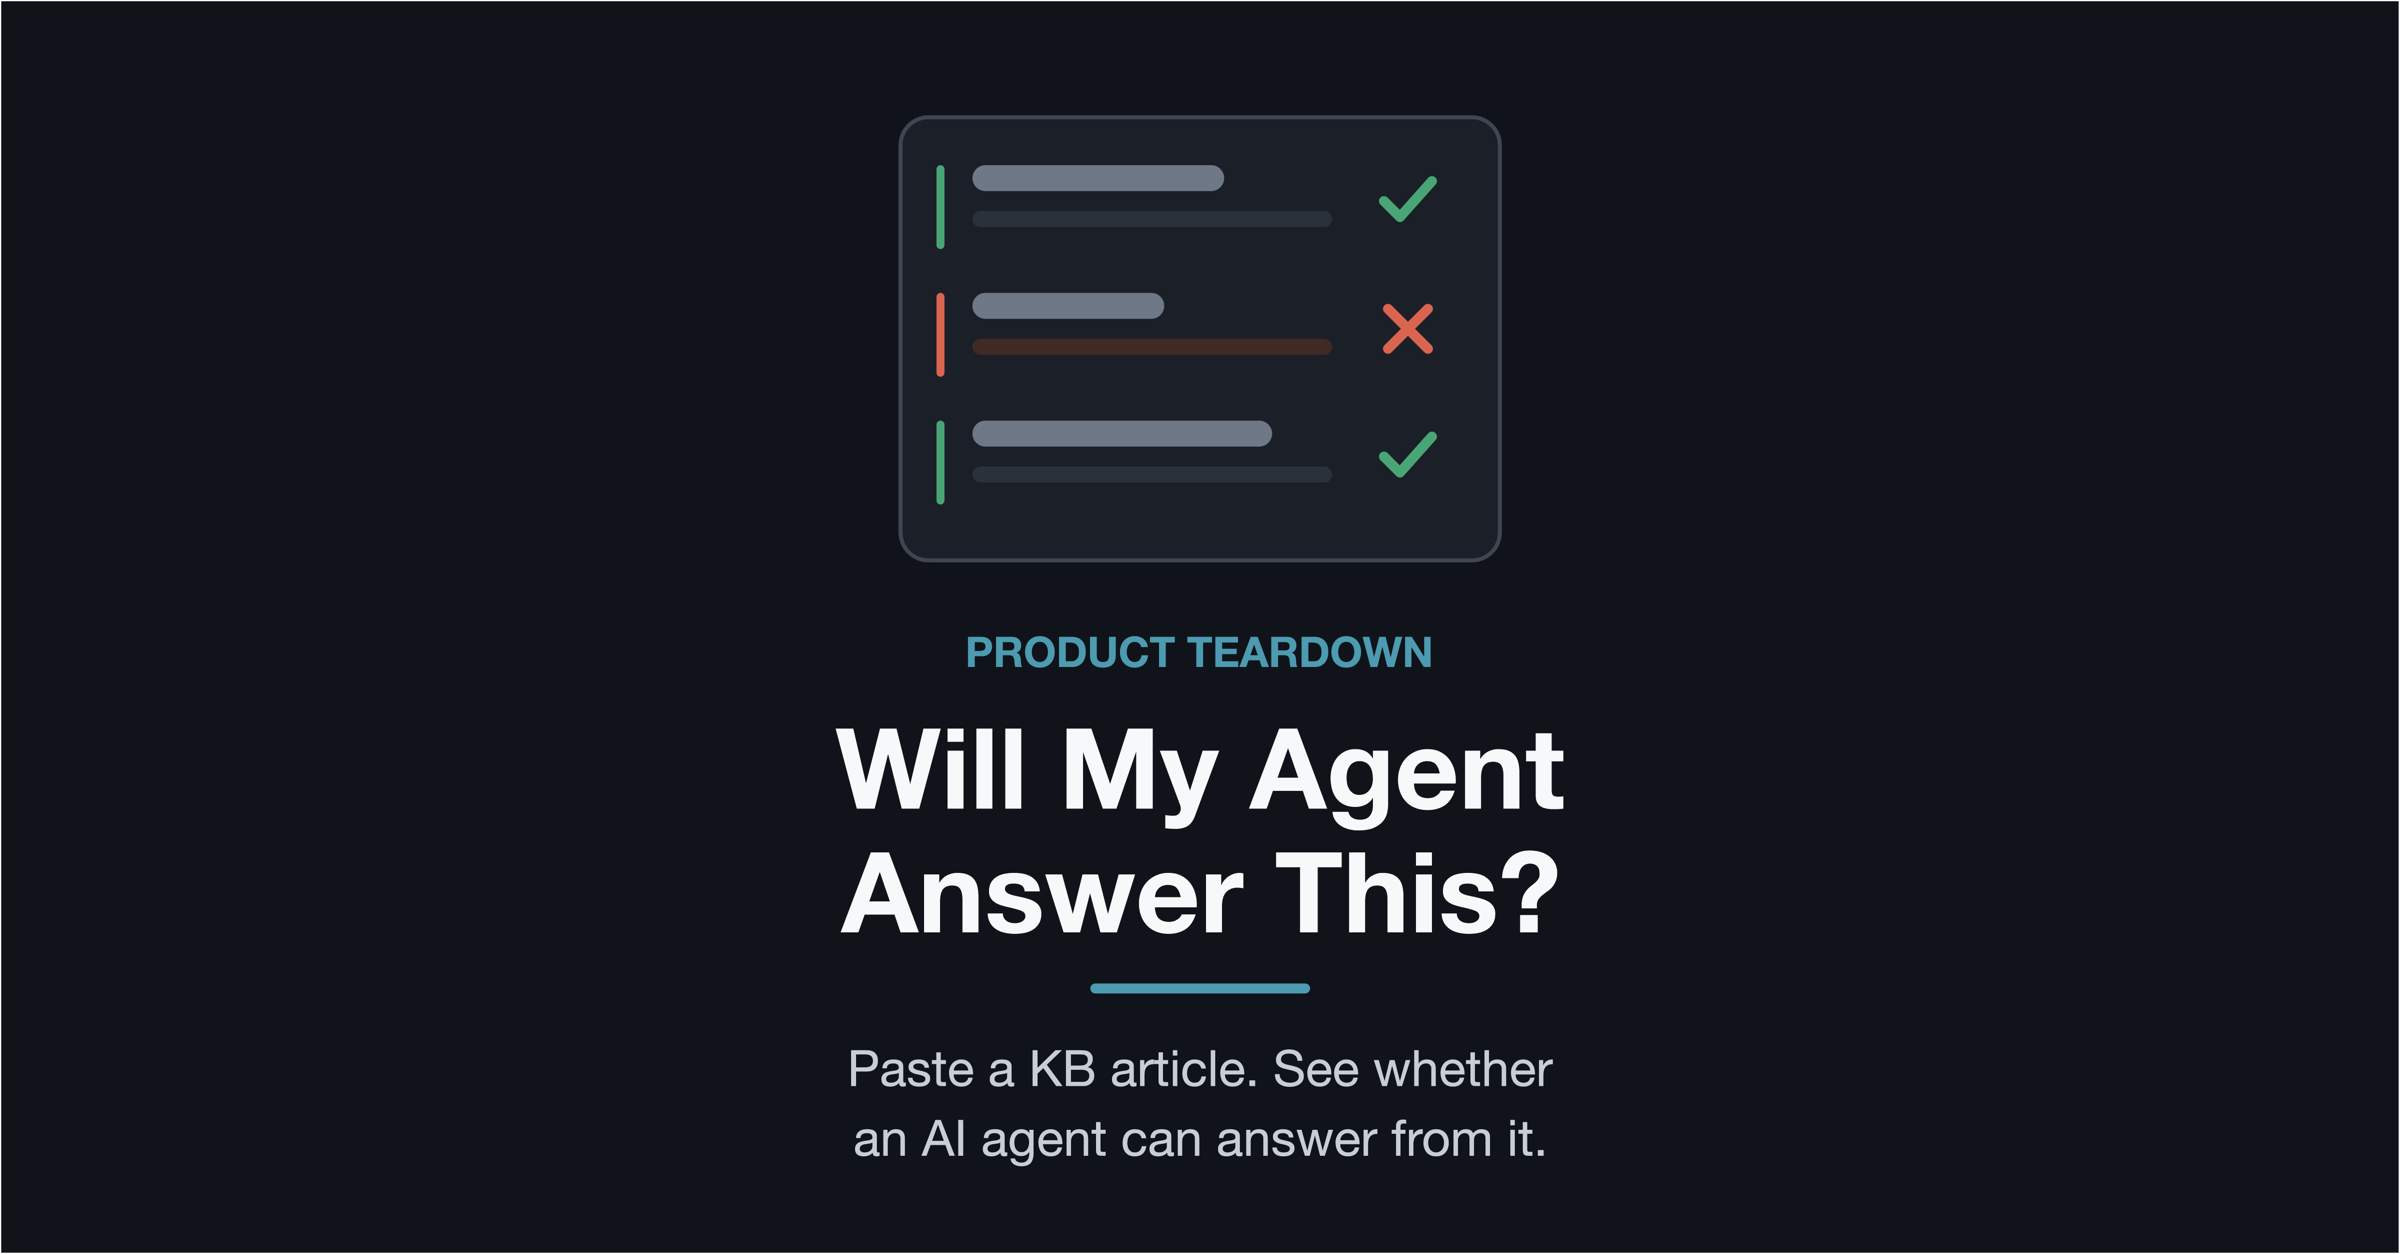
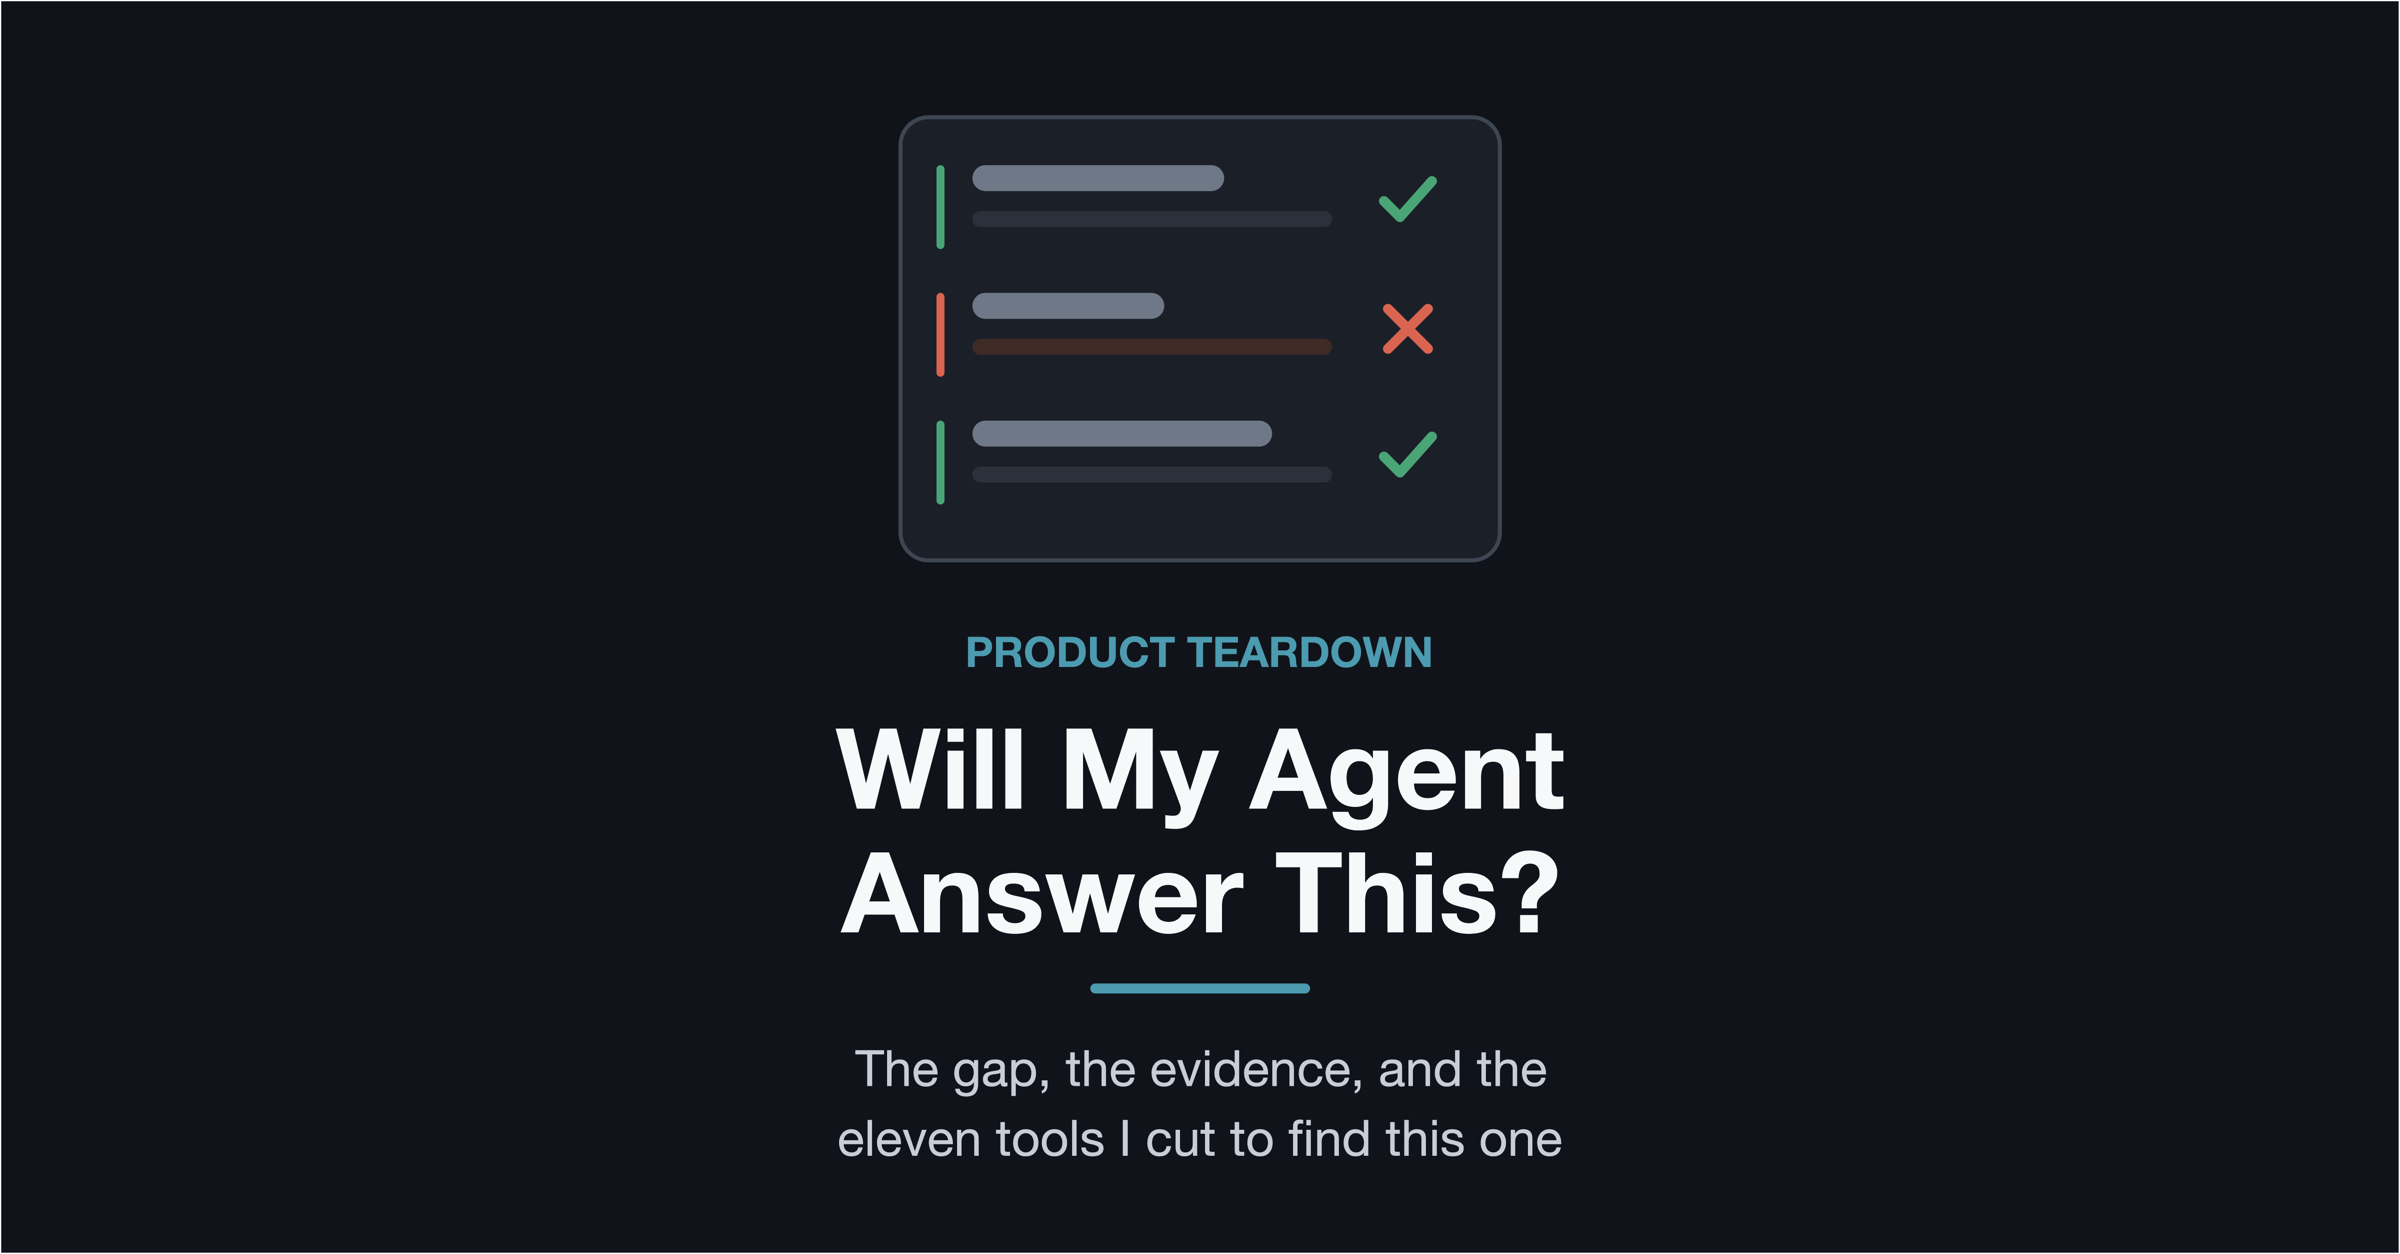
Give the tool its own share card
The teardown and the tool pointed at the same image, so posting a link to
the tool produced a card headed PRODUCT TEARDOWN. Each destination now has
its own, both drawn in the sibling project's visual language: dark ground,
motif above the name, teal rule, two lines of promise, everything inside
the centre 540px so LinkedIn's square Featured crop cannot cut it.

- og-image.svg is now specifically the teardown's card, and its subtitle
  leads with the essay's hook rather than the tool's promise
- og-tool.svg is new: no kicker, and the promise as the subtitle
- Both render to 2400x1254 at around 170 KB, well inside LinkedIn's 5 MB
  limit and its 1.91:1 ratio

Changed region(s): [[0.3438, 0.8397, 0.6562, 0.933]]

diff --git a/tool.html b/tool.html
@@ -15,12 +15,12 @@
       property="og:description"
       content="Paste a knowledge-base article and get a 0 to 100 score for whether an AI agent can answer from it, across five explainable checks. Free, no account, and your text never leaves the page."
     />
-    <meta property="og:image" content="https://roanukz.github.io/agent-answer/og-image.png" />
+    <meta property="og:image" content="https://roanukz.github.io/agent-answer/og-tool.png" />
     <meta property="og:image:width" content="2400" />
     <meta property="og:image:height" content="1254" />
     <meta
       property="og:image:alt"
-      content="Will My Agent Answer This? A knowledge-base article with two sections an agent can answer from and one it cannot."
+      content="A knowledge-base article with two sections an AI agent can answer from and one it cannot."
     />
     <meta property="og:url" content="https://roanukz.github.io/agent-answer/tool.html" />
     <meta property="og:type" content="website" />
